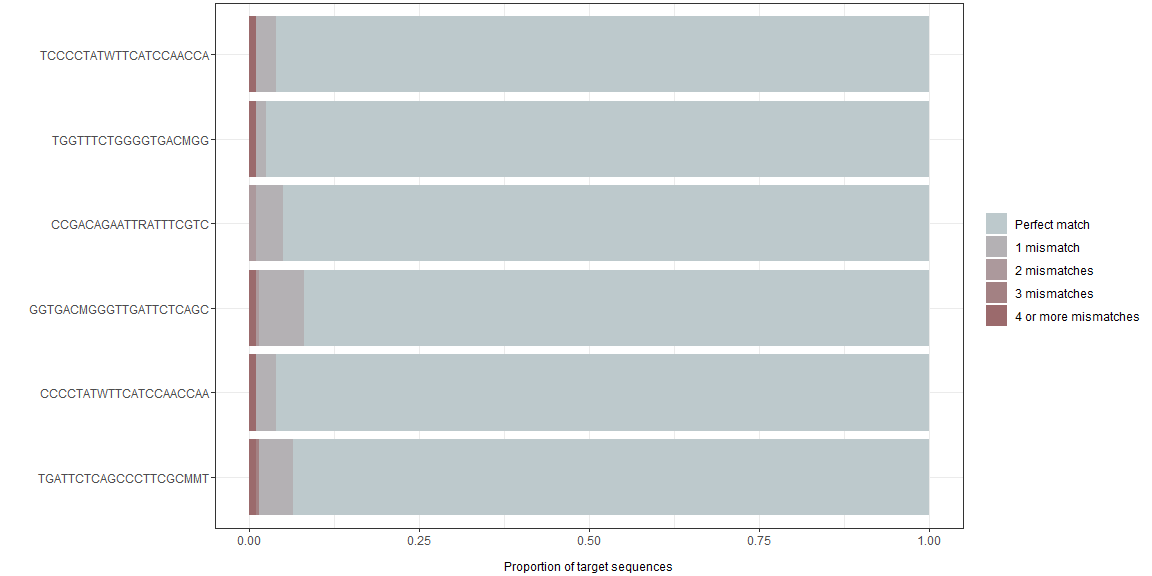
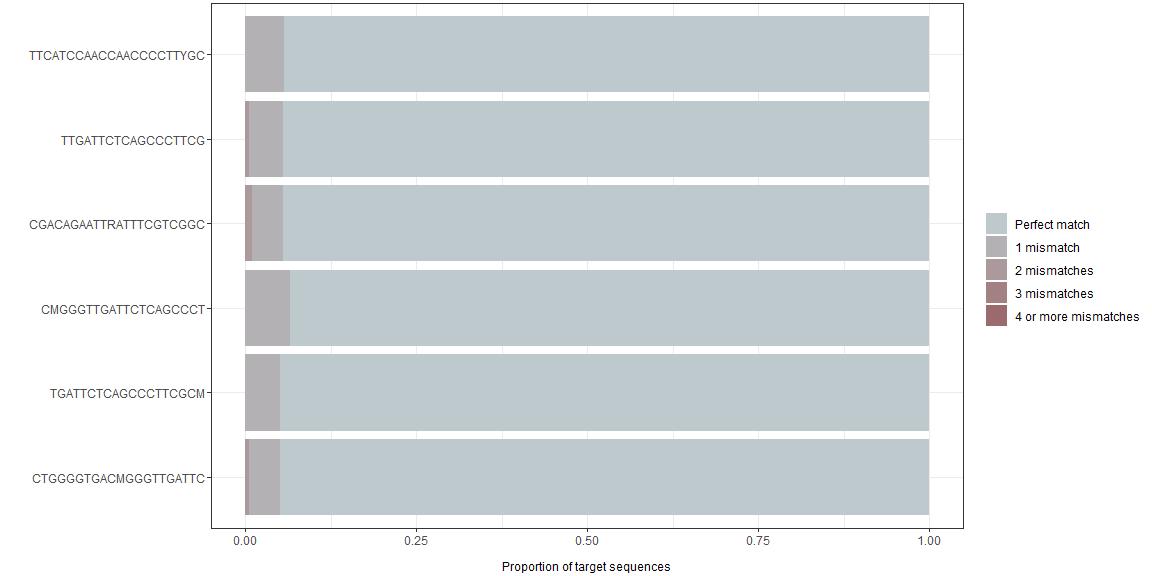
readme

diff --git a/README.md b/README.md
@@ -187,12 +187,12 @@ Results:
 
 | iupacSequence          | perfectMatch | oneMismatch | twoMismatches | threeMismatches | fourOrMoreMismatches | offTargetMatch |
 | :--------------------- | -----------: | ----------: | ------------: | --------------: | -------------------: | -------------: |
-| TCCCCTATWTTCATCCAACCA  |         0.96 |        0.03 |          0.00 |               0 |                 0.01 |           0.00 |
-| TGGTTTCTGGGGTGACMGG    |         0.98 |        0.01 |          0.00 |               0 |                 0.01 |           0.00 |
-| CCGACAGAATTRATTTCGTC   |         0.95 |        0.04 |          0.01 |               0 |                 0.00 |           0.01 |
-| GGTGACMGGGTTGATTCTCAGC |         0.92 |        0.06 |          0.00 |               0 |                 0.01 |           0.00 |
-| CCCCTATWTTCATCCAACCAA  |         0.96 |        0.03 |          0.00 |               0 |                 0.01 |           0.00 |
-| TGATTCTCAGCCCTTCGCMMT  |         0.94 |        0.05 |          0.00 |               0 |                 0.01 |           0.00 |
+| TTCATCCAACCAACCCCTTYGC |         0.94 |        0.06 |          0.00 |               0 |                    0 |           0.00 |
+| TTGATTCTCAGCCCTTCG     |         0.94 |        0.05 |          0.01 |               0 |                    0 |           0.07 |
+| CGACAGAATTRATTTCGTCGGC |         0.94 |        0.05 |          0.01 |               0 |                    0 |           0.00 |
+| CMGGGTTGATTCTCAGCCCT   |         0.93 |        0.07 |          0.00 |               0 |                    0 |           0.00 |
+| TGATTCTCAGCCCTTCGCM    |         0.95 |        0.05 |          0.00 |               0 |                    0 |           0.00 |
+| CTGGGGTGACMGGGTTGATTC  |         0.95 |        0.05 |          0.01 |               0 |                    0 |           0.00 |
 
 The match table can be visualized using `plotData()`:
 
